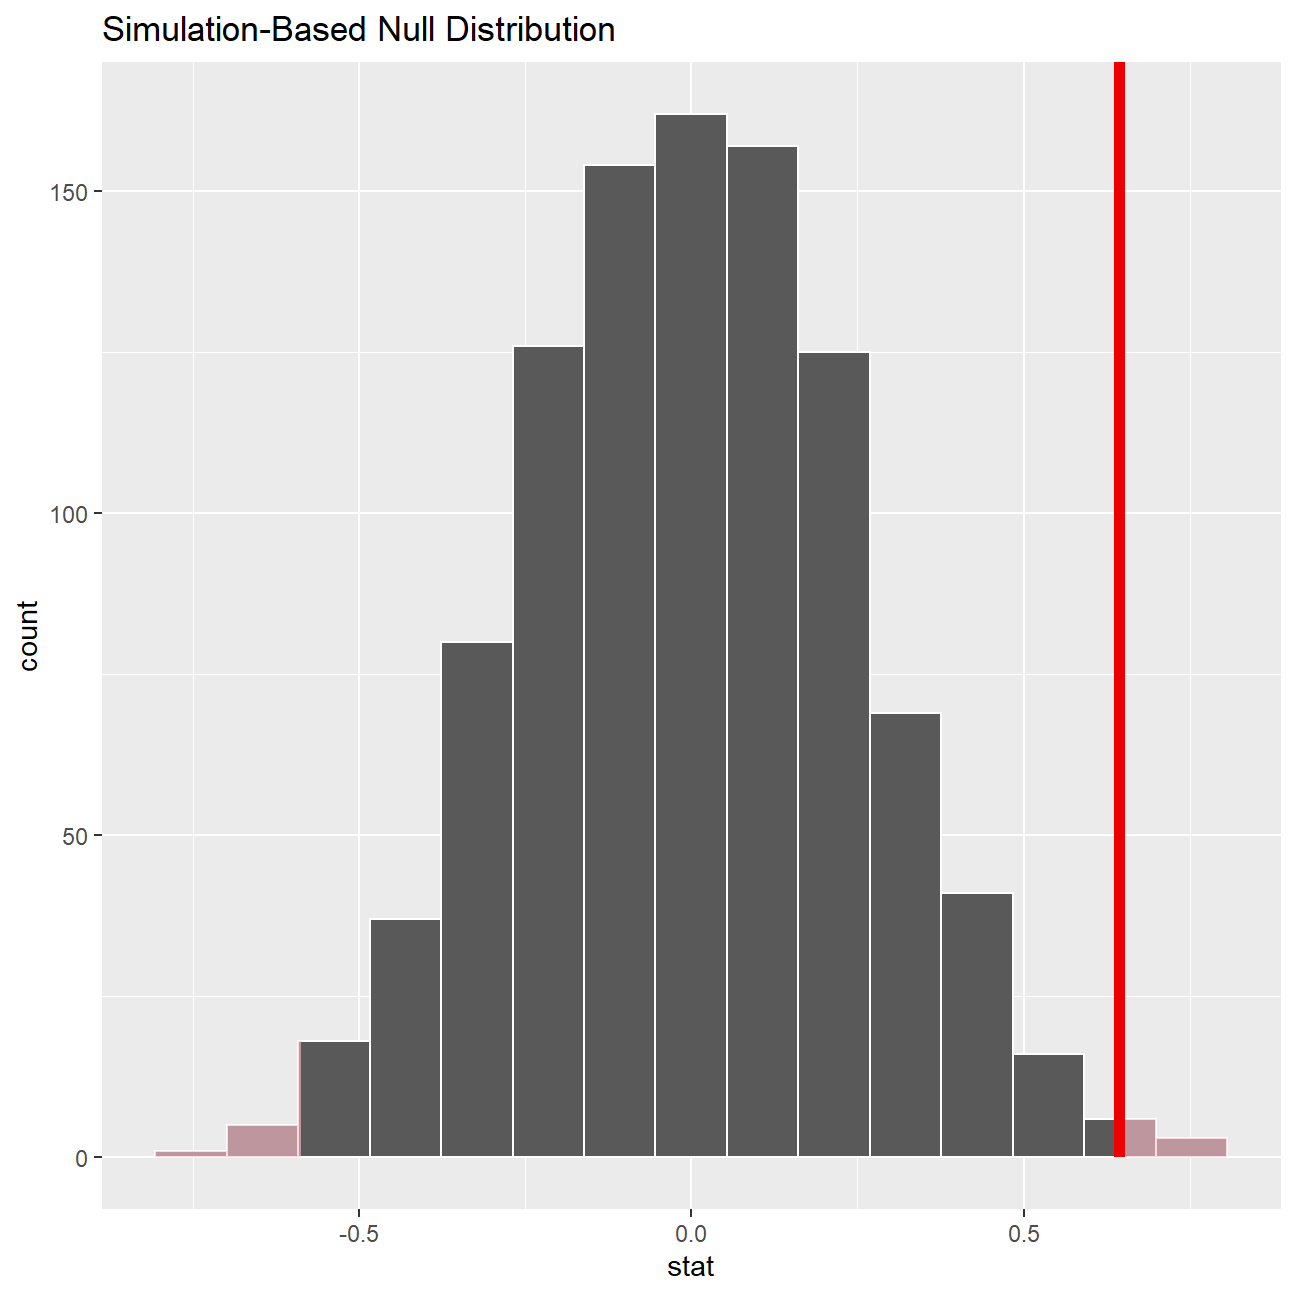
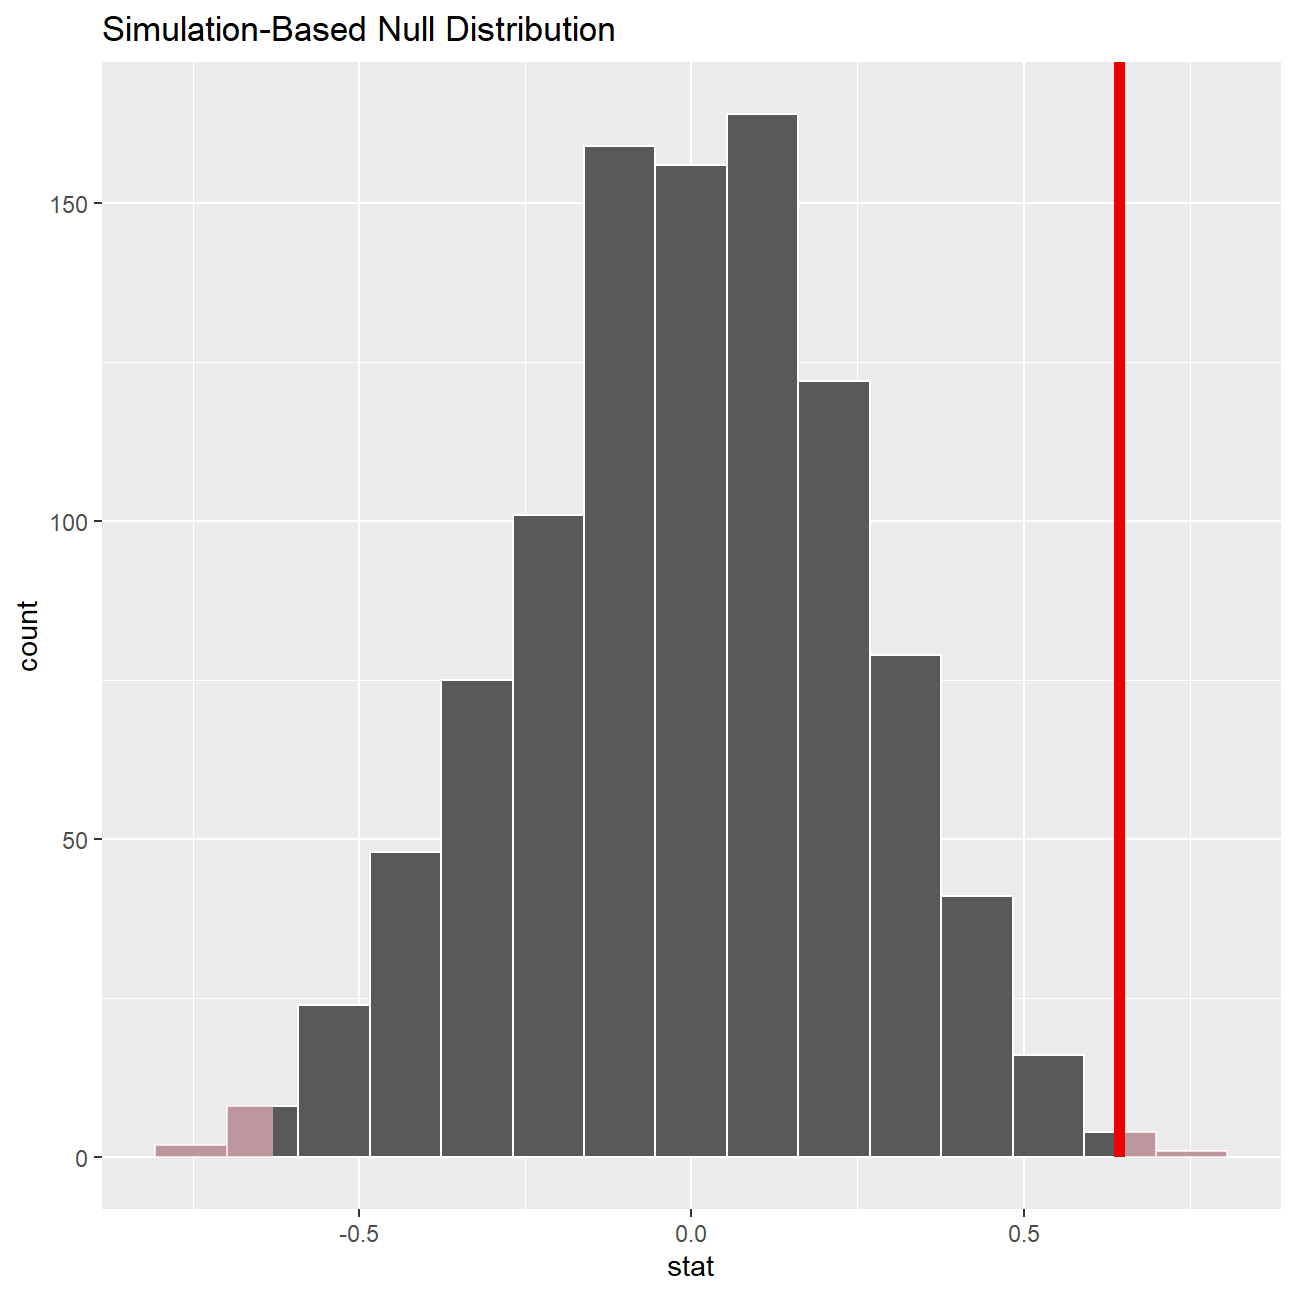
Done, enjoy!

diff --git a/content/blogs/blog3.html b/content/blogs/blog3.html
@@ -1,7 +1,7 @@
 ---
-title: "Who is better: Tim Burton or Steven Spielberg?"
+title: "IMDB ratings: differences between directors?"
 author: "Federico Carrara"
-date: "2020-10-17"
+date: "2020-10-20"
 output:
   html_document:
     theme: flatly
@@ -14,8 +14,7 @@ output:
 
 
 
-<div id="imdb-ratings-differences-between-directors" class="section level1">
-<h1>IMDB ratings: Differences between directors</h1>
+<p>Let’s first analyse the movies database</p>
 <pre class="r"><code>movies &lt;- read_csv(here::here(&quot;data&quot;, &quot;movies.csv&quot;))
 glimpse(movies)</code></pre>
 <pre><code>## Rows: 2,961
@@ -31,6 +30,7 @@ glimpse(movies)</code></pre>
 ## $ votes               &lt;dbl&gt; 886204, 793059, 418214, 995415, 1676169, 534658...
 ## $ reviews             &lt;dbl&gt; 3777, 2843, 1934, 2425, 5312, 3917, 1752, 1752,...
 ## $ rating              &lt;dbl&gt; 7.9, 7.7, 7.0, 8.1, 9.0, 6.5, 8.7, 7.5, 8.5, 7....</code></pre>
+<p>By building confidence intervals we can understand if Spielberg and Burton have similar ratings</p>
 <pre class="r"><code>directors_ci &lt;- movies %&gt;%
   filter(director %in% c(&quot;Steven Spielberg&quot;, &quot;Tim Burton&quot;)) %&gt;%
   filter(!is.na(rating)) %&gt;% 
@@ -68,6 +68,7 @@ ggplot(directors_ci,
   theme_bw() +
   theme(legend.position = &quot;none&quot;)</code></pre>
 <p><img src="/blogs/blog3_files/figure-html/unnamed-chunk-1-1.png" width="648" style="display: block; margin: auto;" /></p>
+<p>Spielberg is the clear winner, let’s see if we get the same result using the infer package</p>
 <pre class="r"><code># Ho: Mean rating for Steven Spielberg and Tim Burton show difference = 0
 # H1: Mean rating for Steven Spielberg and Tim Burton show difference != 0
 
@@ -107,6 +108,5 @@ null_rating %&gt;% visualize() +
 <pre><code>## # A tibble: 1 x 1
 ##   p_value
 ##     &lt;dbl&gt;
-## 1   0.014</code></pre>
+## 1   0.008</code></pre>
 <pre class="r"><code># With a p-value of 0.01 that is lower 0.05 we reject the null hypothesis and observe a significant difference</code></pre>
-</div>
